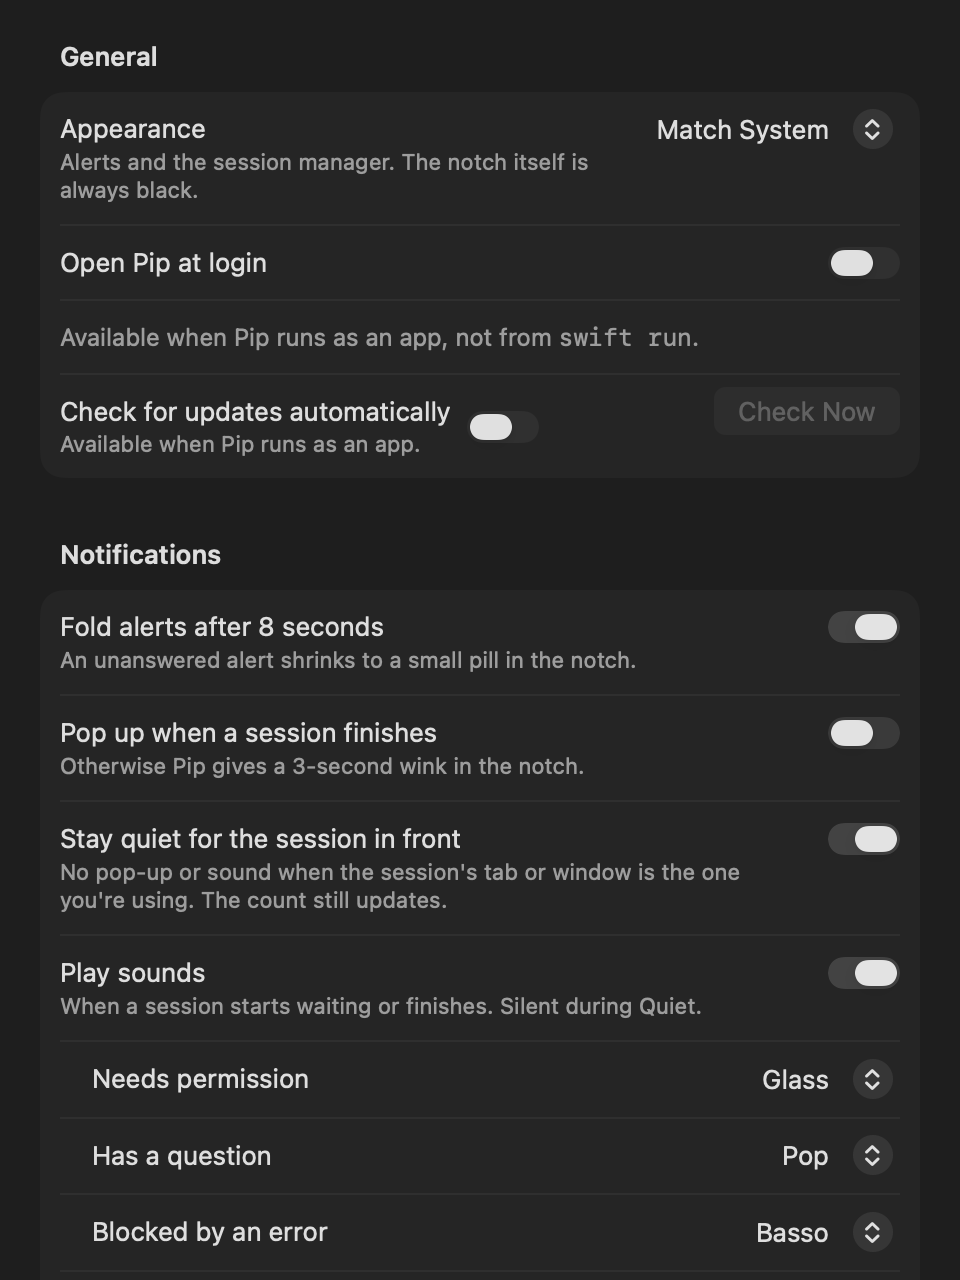
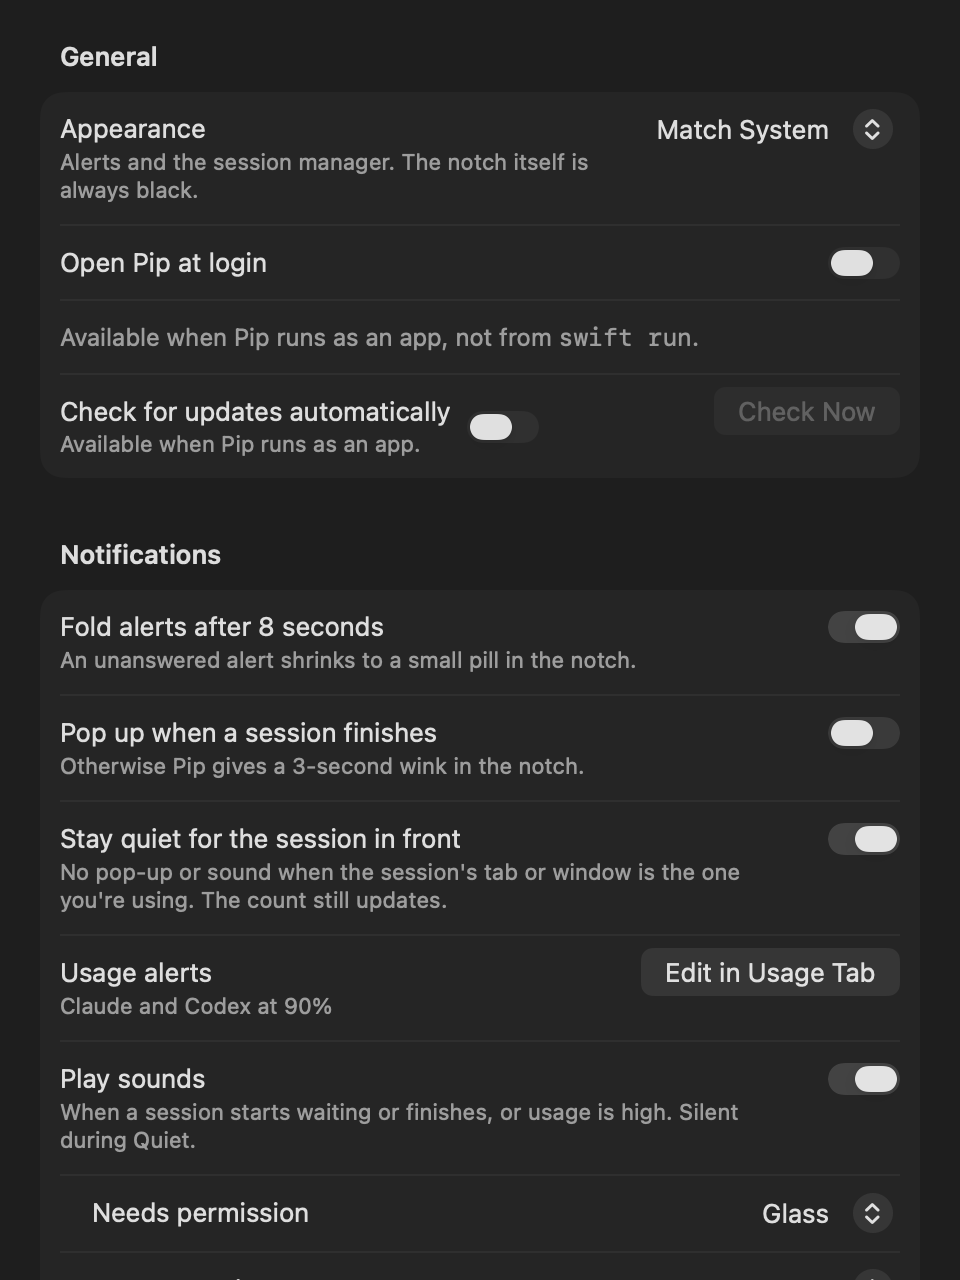
Render usage alerts in the README images
The Usage tab image now shows two alerts, and a new image shows a usage alert in the notch. Settings is re-rendered with its Usage alerts row.

diff --git a/Sources/Pip/Debug/ReadmeImages.swift b/Sources/Pip/Debug/ReadmeImages.swift
@@ -25,11 +25,13 @@ enum ReadmeImages {
         try write(island("alert-multi", height: 330), "multiple")
         try write(island("manager", height: 670), "manager")
         try write(island("alert-permission", light: true, height: 320), "light")
+        try write(island("alert-usage", height: 300), "usage-alert")
 
         let tabs = PhaseMachine(scheduler: ManualScheduler(start: Date()))
         tabs.update(sessions: MockSessions.calm())
         tabs.history = MockSessions.history()
         tabs.usage = MockSessions.usage()
+        tabs.setUsageAlertRules([UsageAlertRule(scope: .claude, threshold: 75)] + UsageAlertRule.defaults)
         func manager(_ tab: ManagerTab) -> some View {
             tabs.managerTab = tab
             return ManagerView(machine: tabs, bar: 32)
